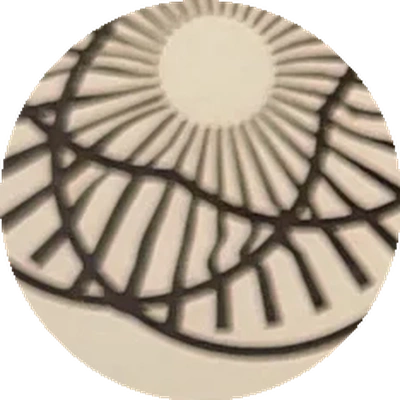
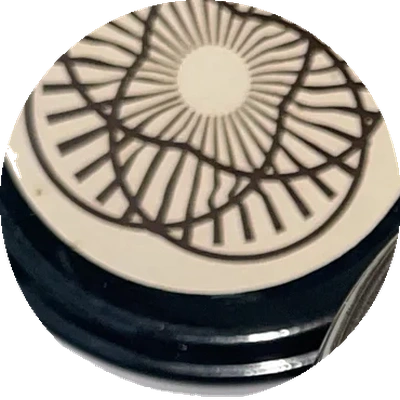
fix: proper generous image extraction - full jar with glass rim + full lid with black rim for clean chakra spin

diff --git a/src/components/home/HeroBanner.tsx b/src/components/home/HeroBanner.tsx
@@ -45,7 +45,7 @@ export default function HeroBanner() {
       {/* Right Content (Animated Product Stage) */}
       <div className="flex-1 relative min-h-[50vh] lg:min-h-full bg-[#E8D4C0] overflow-hidden flex items-center justify-center">
         
-        {/* Soft atmospheric background glow */}
+        {/* Soft atmospheric background */}
         <motion.div 
           className="absolute inset-0 bg-gradient-to-tr from-[#F1DDC4] to-[#E8D4C0]"
           initial={{ opacity: 0 }}
@@ -53,10 +53,9 @@ export default function HeroBanner() {
           transition={{ duration: 2 }}
         />
 
-        {/* The Pedestal / Spotlight */}
         <div className="relative w-full h-full flex items-center justify-center">
           
-          {/* Slow pulsing aura */}
+          {/* Slow pulsing aura behind the product */}
           <motion.div 
             className="absolute w-[80%] max-w-[500px] aspect-square rounded-full bg-white/40 blur-3xl mix-blend-overlay"
             animate={{ 
@@ -66,32 +65,31 @@ export default function HeroBanner() {
             transition={{ duration: 8, repeat: Infinity, ease: "easeInOut" }}
           />
 
-          {/* Floating Product Composition */}
+          {/* Entire composition floats gently */}
           <motion.div
-            className="relative z-10 flex items-center justify-center"
+            className="relative z-10"
             animate={{ y: [-12, 12, -12] }}
             transition={{ duration: 6, repeat: Infinity, ease: "easeInOut" }}
           >
-            {/* Container for jar + lid composition */}
-            <div className="relative w-[340px] h-[340px] lg:w-[420px] lg:h-[420px]">
+            <div className="relative w-[360px] h-[380px] lg:w-[440px] lg:h-[460px]">
               
-              {/* Open Jar (center, slightly right-up) */}
+              {/* The open jar — positioned center-right, larger */}
               <img 
                 src="/images/products/hero-jar.webp" 
-                alt="Natürlisch Scrub" 
-                className="absolute top-0 right-0 w-[75%] h-[75%] object-contain drop-shadow-2xl"
+                alt="Natürlisch Berry Scrub" 
+                className="absolute top-0 right-0 w-[80%] h-[80%] object-contain drop-shadow-2xl"
               />
 
-              {/* Spinning Lid (bottom-left, like a chakra) */}
+              {/* The spinning lid — positioned bottom-left */}
               <motion.div
-                className="absolute bottom-0 left-0 w-[45%] h-[45%]"
+                className="absolute bottom-2 left-0 w-[38%] h-[38%] drop-shadow-xl"
                 animate={{ rotate: 360 }}
                 transition={{ duration: 12, repeat: Infinity, ease: "linear" }}
               >
                 <img 
                   src="/images/products/hero-lid.webp" 
-                  alt="Natürlisch Lid" 
-                  className="w-full h-full object-contain drop-shadow-xl"
+                  alt="Natürlisch Mandala Lid" 
+                  className="w-full h-full object-contain"
                 />
               </motion.div>
 
